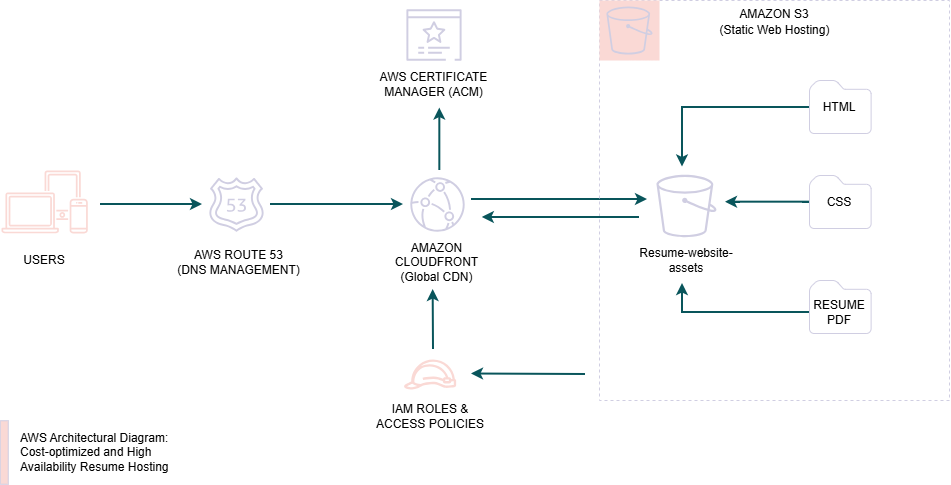
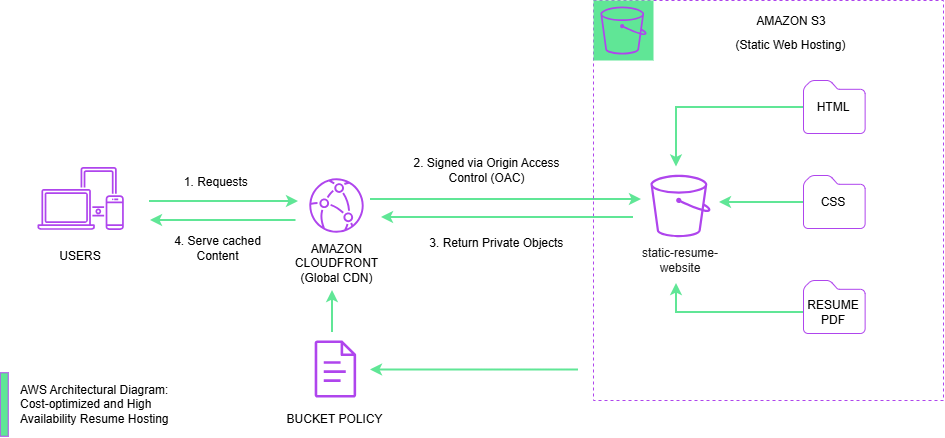
Edit README.md to check off the rest of steps and replace the old diagram with the updated one as well as add the note for reason of OAC

diff --git a/README.md b/README.md
@@ -5,7 +5,7 @@ As a UX/UI designer pivoting into systems architecture, this project marks my fi
 ## The Cloud Architecture
 To keep this site fast, secure, and incredibly cost-effective, I am building it using a modern cloud-native approach instead of a traditional web server:
 * **Amazon S3:** Used for object storage to host the static HTML and CSS frontend files.
-* **Amazon CloudFront (Planned):** Acting as the Content Delivery Network (CDN) to securely serve the site globally with low latency.
+* **Amazon CloudFront:** Acting as the Content Delivery Network (CDN) to securely serve the site globally with low latency.
 
 ## Core Technologies Used
 * **Frontend:** HTML, CSS (Focusing on a clean, responsive layout)
@@ -18,10 +18,15 @@ Because this is my first deep dive into AWS, I am actively building skills in:
 * **Cloud Storage Fundamentals:** Understanding how objects storage works compared to local file systems.
 * **Content Delivery:** Learning how caching and edge locations work via a CDN to optimize web services.
 
-## Future Roadmap
+## Roadmap
 - [X] Create initial HTML and CSS files.
-- [x] Upload HTML and CSS files to S3.
+- [X] Upload HTML and CSS files to S3.
 - [X] Configure S3 bucket for static website hosting.
-- [ ] Point a CloudFront distribution to the bucket for global delivery.
+- [X] Point a CloudFront distribution to the bucket for global delivery.
+- [X] Secure S3 Origin with Origin Access Control (OAC)
+
+[!NOTE] Why is the S3 bucket private if visitors can still see the site?
+
+The S3 bucket itself blocks all public internet access. When a user visits the site, CloudFront acts as an authorized proxy. CloudFront uses Origin Access Control (OAC) to sign requests behind the scenes. S3 verifies this cryptographic signature against its Bucket Policy and grants access only to CloudFront, ensuring no one can access or download files directly from S3
 
 ![AWS Architectural Diagram](assets/static-resume-architecture.png)
